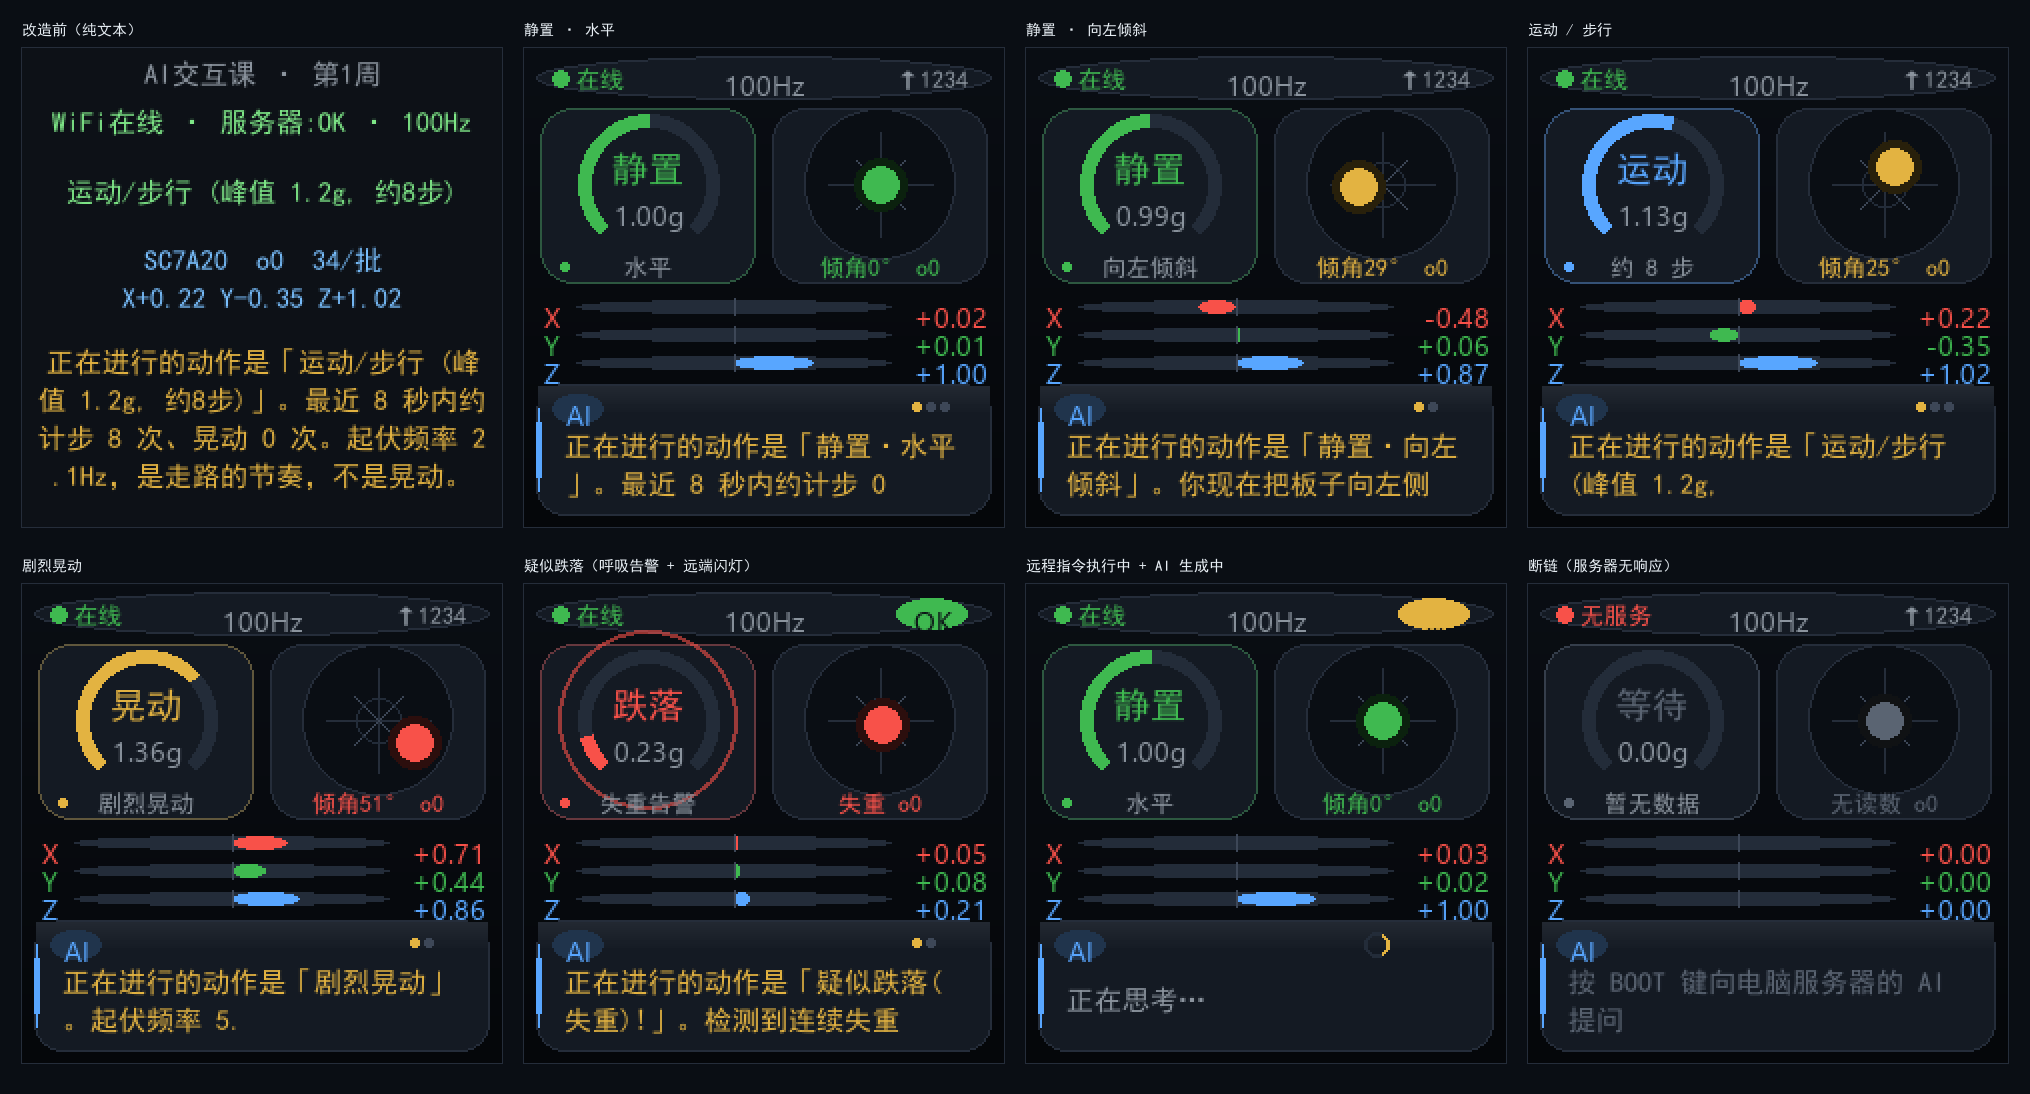
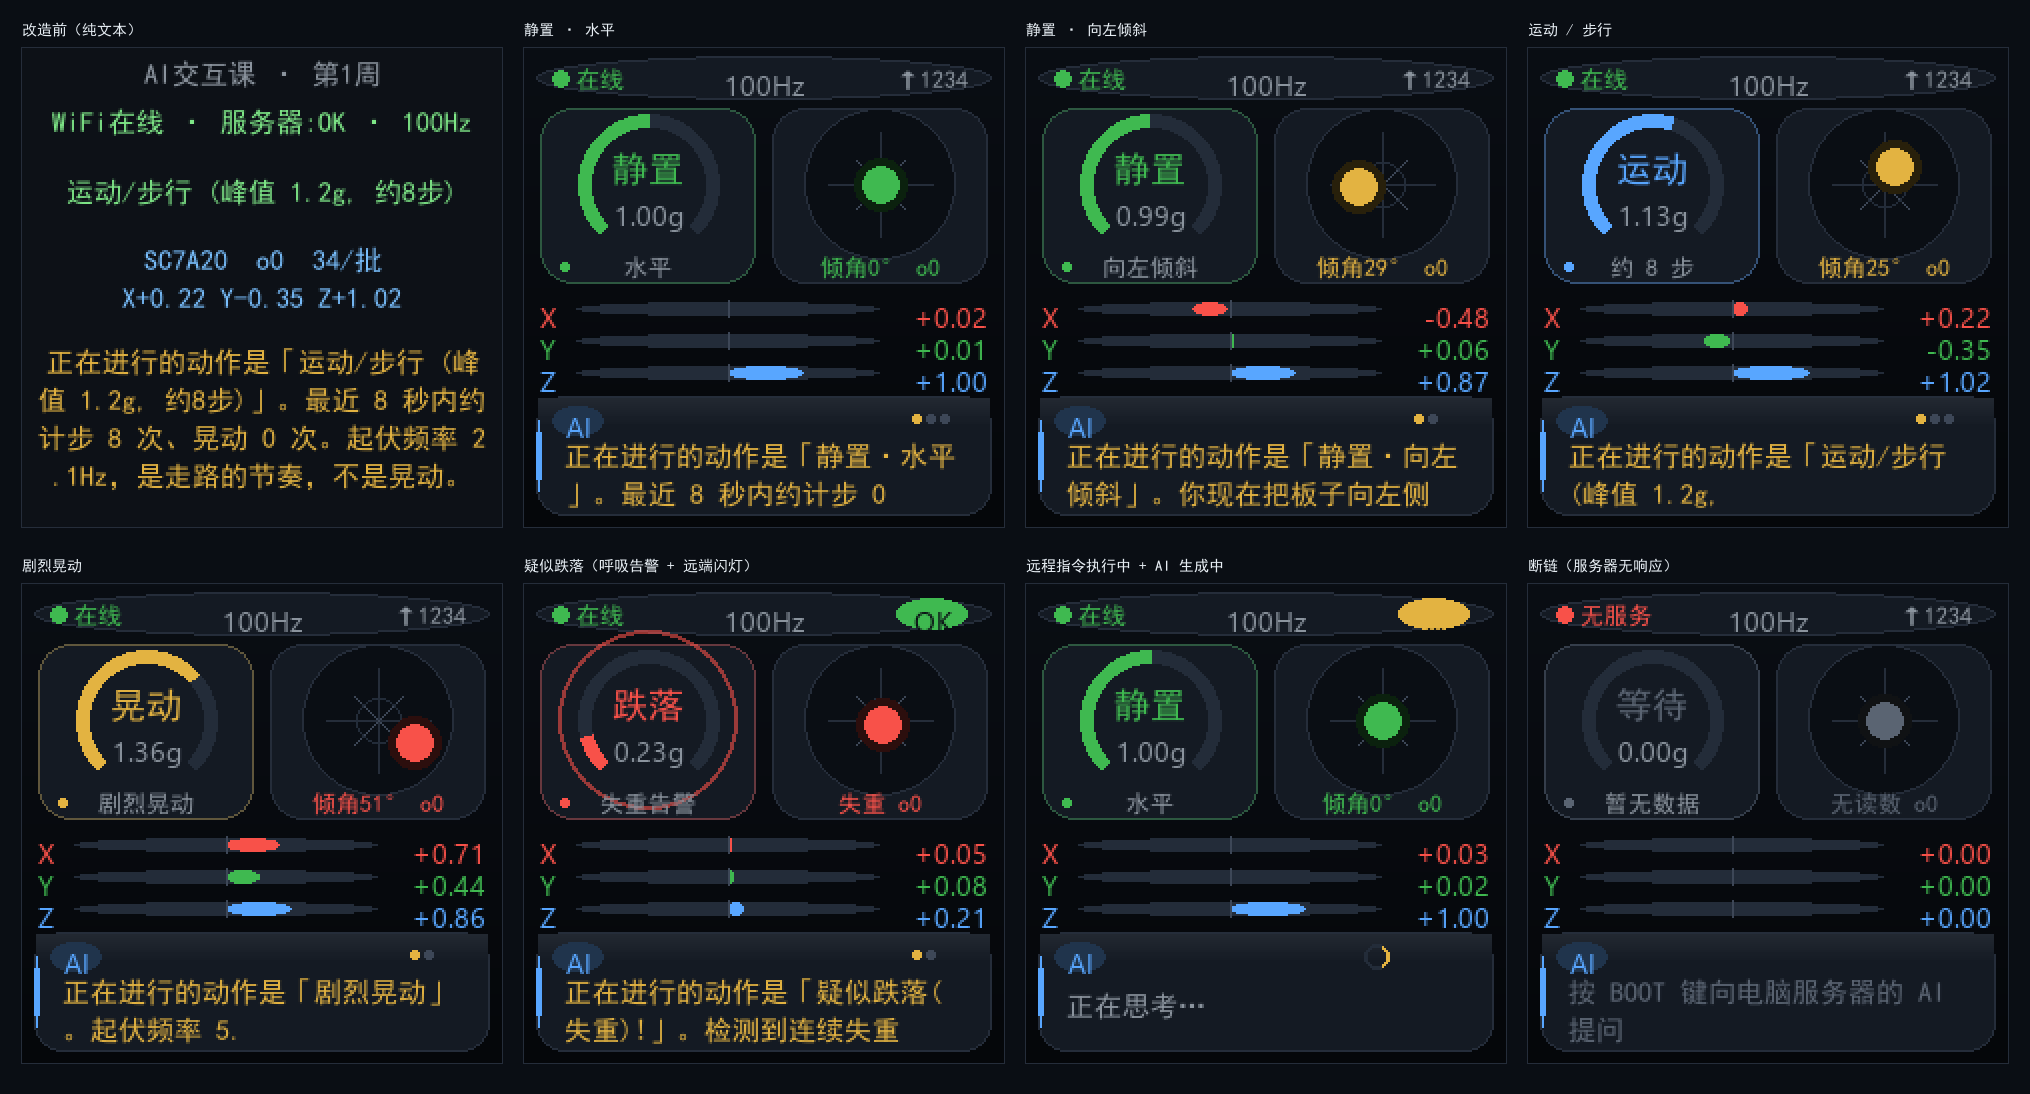
fix(device): X/Y/Z 字母和数值显示不全 —— 字号比行高还大
用户反馈「屏幕还是 x,y,z 的字母和数字都显示不完整的，上次没有修改好」。**说得对**：
上次我只修了**倾角小字换行**那一处（`LV_LABEL_LONG_WRAP` + 行高裁），
**没动轴条这一行** —— 轴条是另一类毛病：

**① 纵向被切（根因）**：字母和数值都用 `&lv_font_montserrat_14`（14px 的字），
而这一行只有 `UI_AXIS_ROW_H = 11`px 高 —— **字号比行高大 3px，字被上下切掉**。

**② 横向被切**：数值框只有 42px，而 `+1.03` 这种（带符号 5 字符）在 14px 下约 42~45px，
贴着框边会被 `LV_LABEL_LONG_CLIP` 裁掉。

**改法**：

| 项 | 原来 | 改成 | 为什么 |
|---|---|---|---|
| 字号（字母+数值） | `montserrat_14` | **`montserrat_12`** | 字号必须**小于行高** |
| 行高 | 11px | **13px** | 给 12px 字留 1px 余量 |
| 数值框宽 | 42px | **48px** | `+1.03` 约 36px |
| 字母框宽 | 12px | **14px** | 同理 |
| 条宽 | 158px | 152px | 把省下的横向让给数值 |
| 回复卡 | y=168 h=66 | **y=174 h=60** | 纵向空间不够，从回复卡匀 6px（回复区 40→34） |

几何核算：轴条占 124..169、回复卡 174..234、屏高 240 → **不重叠、底部留 6px** ✓。
预览图复核：X/Y/Z 与 −0.48 / +0.06 / +0.87 **全部完整在框内** ✓。

> **为什么上次没发现**：两次的"显示不全"表象一样、根因完全不同 ——
> 倾角小字是**换行后被行高裁**，轴条是**字比行高大**。我按前者的思路改，就漏了后者。
> 这类"两个常量隔了 100 多行、只有放一起才看得出矛盾"的问题，光读代码很难发现，
> 值得给预览工具加一条自动检查：**每个标签的字号必须 ≤ 它所在容器的高度**。

真机已烧录 COM10（`orient=4 (default)`，启动正常）。

Changed region(s): [[0.0, 0.7459, 0.9931, 0.9634], [0.2483, 0.2797, 0.9931, 0.4662]]

diff --git a/device/main/ui.c b/device/main/ui.c
@@ -124,19 +124,19 @@ static const char *TAG = "ui";
 
 /* 三轴对称条 */
 #define UI_AXIS_Y       124
-#define UI_AXIS_ROW_H   11
+#define UI_AXIS_ROW_H   13
 #define UI_AXIS_GAP     3
-#define UI_AXIS_LBL_X   10
-#define UI_AXIS_LBL_W   12
+#define UI_AXIS_LBL_X   8
+#define UI_AXIS_LBL_W   14
 #define UI_AXIS_BAR_X   26
-#define UI_AXIS_BAR_W   158
+#define UI_AXIS_BAR_W   152
 #define UI_AXIS_BAR_H   7
-#define UI_AXIS_VAL_X   190
-#define UI_AXIS_VAL_W   42
+#define UI_AXIS_VAL_X   184
+#define UI_AXIS_VAL_W   48
 
 /* AI 回复卡片 */
-#define UI_CARD_Y       168
-#define UI_CARD_H       66
+#define UI_CARD_Y       174
+#define UI_CARD_H       60
 #define UI_CARD_X       UI_MARGIN
 #define UI_CARD_W       (UI_SCR_W - 2 * UI_MARGIN)
 #define UI_TAG_X        14
@@ -159,7 +159,7 @@ static const char *TAG = "ui";
 #define UI_REPLY_X      14
 #define UI_REPLY_Y      22                      /* 相对卡片 */
 #define UI_REPLY_W      200
-#define UI_REPLY_H      40
+#define UI_REPLY_H      34
 
 /* ==========================================================================
  * 配色（深色玻璃拟态：深底 + 低对比描边 + 高饱和语义色）
@@ -1106,8 +1106,11 @@ static void build_axis_rows(lv_obj_t *scr)
     for (int i = 0; i < 3; i++) {
         int y = UI_AXIS_Y + i * (UI_AXIS_ROW_H + UI_AXIS_GAP);
 
+        /* 字号必须**小于行高**：原来是 montserrat_14 塞进 UI_AXIS_ROW_H = 11 的行里，
+         * 字被上下切掉 —— 用户反馈"X/Y/Z 的字母和数字都显示不完整"就是这个。
+         * 现在 12px 字 + 13px 行，纵向留 1px 余量。 */
         lv_obj_t *lbl = make_label(scr, UI_AXIS_LBL_X, y, UI_AXIS_LBL_W, UI_AXIS_ROW_H,
-                                   &lv_font_montserrat_14, axis_color[i], LV_TEXT_ALIGN_LEFT);
+                                   &lv_font_montserrat_12, axis_color[i], LV_TEXT_ALIGN_LEFT);
         lv_label_set_long_mode(lbl, LV_LABEL_LONG_CLIP);
         lv_label_set_text(lbl, axis_name[i]);
 
@@ -1136,8 +1139,10 @@ static void build_axis_rows(lv_obj_t *scr)
                  1, UI_AXIS_BAR_H + 2, UI_C_MARK, 0, 0);
 
         /* 数值与 X/Y/Z 标签同色，左右呼应，不再是一串灰蒙蒙的数字 */
+        /* 同上：12px 字，并且数值框从 42 加宽到 48 —— `+1.03` 这种
+         * （带符号 5 个字符）在 14px 下约 42~45px，贴着框边会被裁掉。 */
         s_axis_val[i] = make_label(scr, UI_AXIS_VAL_X, y, UI_AXIS_VAL_W, UI_AXIS_ROW_H,
-                                   &lv_font_montserrat_14, axis_color[i], LV_TEXT_ALIGN_RIGHT);
+                                   &lv_font_montserrat_12, axis_color[i], LV_TEXT_ALIGN_RIGHT);
         lv_label_set_long_mode(s_axis_val[i], LV_LABEL_LONG_CLIP);
         lv_label_set_text(s_axis_val[i], "0.00");
     }
